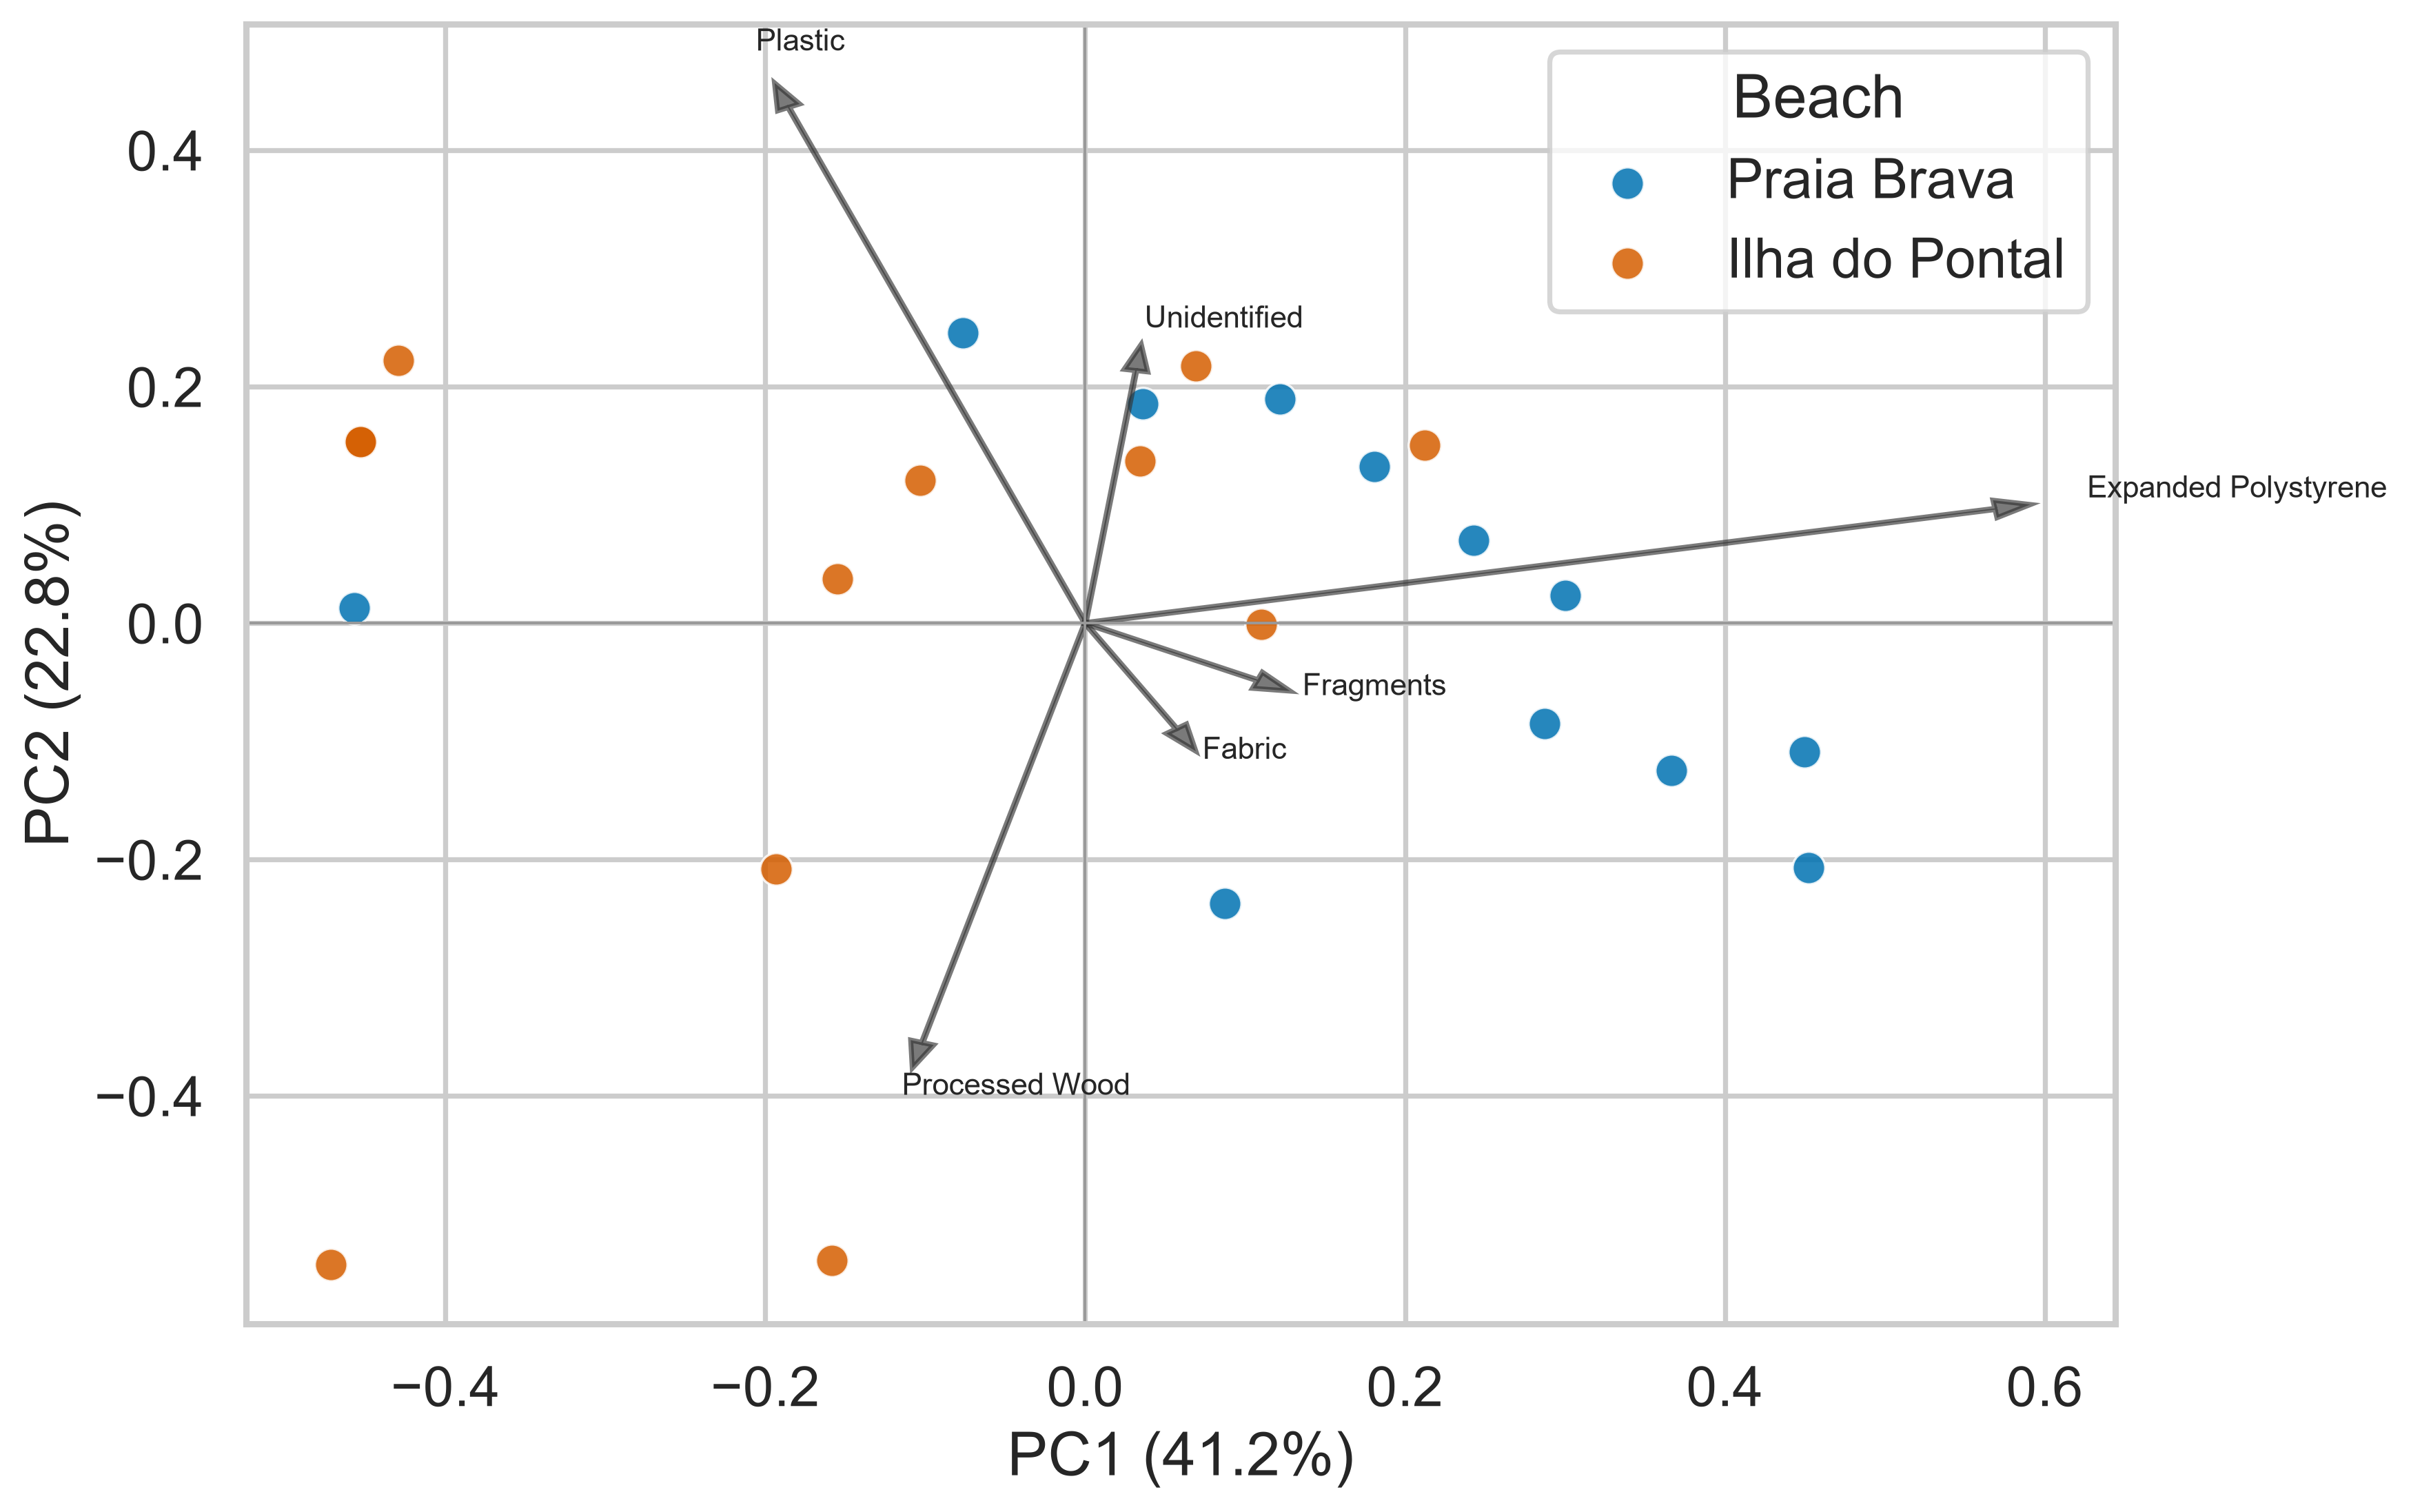
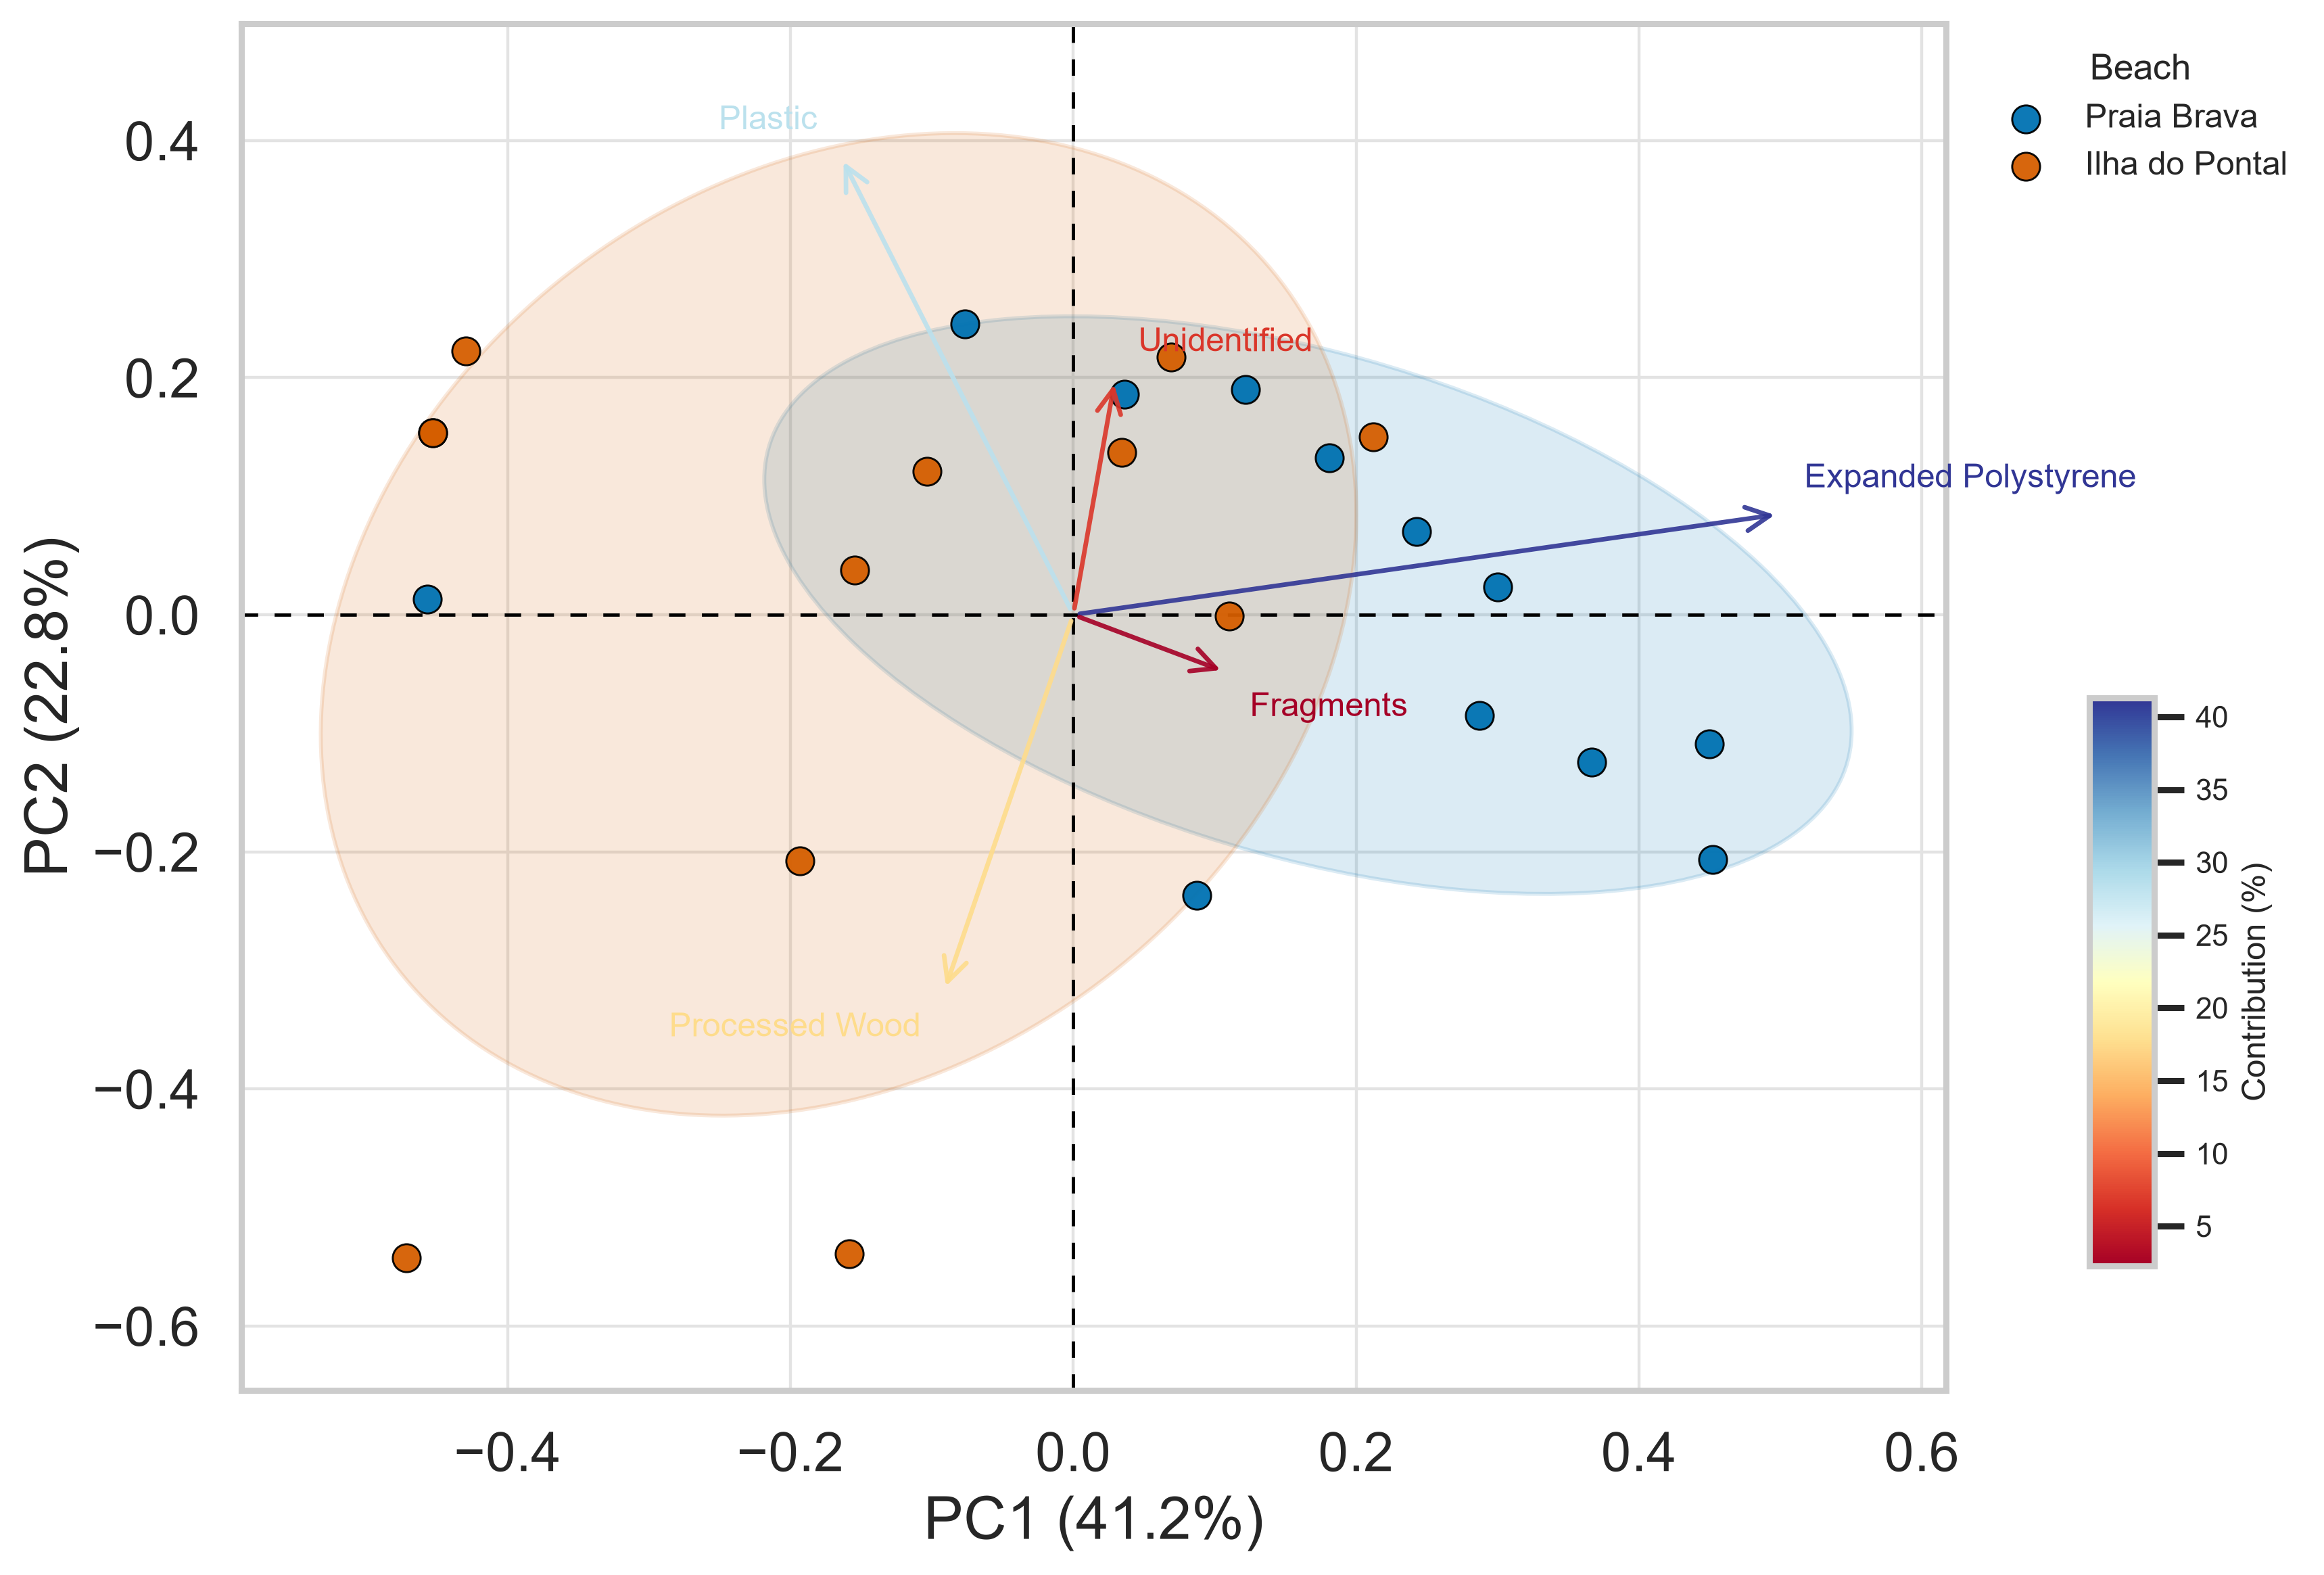
Adopt publication-style PCA and add repository metadata

diff --git a/scripts/02_run_analysis.py b/scripts/02_run_analysis.py
@@ -15,11 +15,14 @@ warnings.filterwarnings(
 import matplotlib
 matplotlib.use("Agg")
 import matplotlib.pyplot as plt
+from matplotlib.cm import ScalarMappable
+from matplotlib.colors import Normalize
+from matplotlib.patches import Ellipse
 import numpy as np
 import pandas as pd
 import seaborn as sns
 from scipy.spatial.distance import pdist, squareform
-from scipy.stats import bootstrap
+from scipy.stats import bootstrap, chi2
 from skbio import DistanceMatrix
 from skbio.stats.distance import permanova, permdisp
 from sklearn.cluster import KMeans
@@ -229,6 +232,37 @@ def display_label(value: str) -> str:
     return value.replace("_", " ").title()
 
 
+def add_confidence_ellipse(
+    ax: plt.Axes,
+    x: np.ndarray,
+    y: np.ndarray,
+    color: str,
+    confidence: float = 0.68,
+) -> None:
+    if len(x) < 3:
+        return
+    covariance = np.cov(x, y)
+    eigenvalues, eigenvectors = np.linalg.eigh(covariance)
+    order = np.argsort(eigenvalues)[::-1]
+    eigenvalues = eigenvalues[order]
+    eigenvectors = eigenvectors[:, order]
+    angle = np.degrees(np.arctan2(eigenvectors[1, 0], eigenvectors[0, 0]))
+    radius = np.sqrt(chi2.ppf(confidence, df=2))
+    width, height = 2 * radius * np.sqrt(np.maximum(eigenvalues, 0))
+    ellipse = Ellipse(
+        xy=(float(np.mean(x)), float(np.mean(y))),
+        width=float(width),
+        height=float(height),
+        angle=float(angle),
+        facecolor=color,
+        edgecolor=color,
+        linewidth=1.2,
+        alpha=0.14,
+        zorder=1,
+    )
+    ax.add_patch(ellipse)
+
+
 def main() -> None:
     TABLE_DIR.mkdir(parents=True, exist_ok=True)
     FIGURE_DIR.mkdir(parents=True, exist_ok=True)
@@ -327,6 +361,10 @@ def main() -> None:
     ).rename_axis("category").reset_index()
     loadings["PC1_abs_loading"] = loadings["PC1_loading"].abs()
     loadings["PC2_abs_loading"] = loadings["PC2_loading"].abs()
+    loading_strength = (
+        loadings["PC1_loading"] ** 2 + loadings["PC2_loading"] ** 2
+    )
+    loadings["contribution_percent"] = 100 * loading_strength / loading_strength.sum()
     scores.to_csv(TABLE_DIR / "table_04_pca_scores_and_clusters.csv", index=False)
     loadings.to_csv(TABLE_DIR / "table_05_pca_loadings.csv", index=False)
     silhouette.to_csv(TABLE_DIR / "table_06_cluster_selection.csv", index=False)
@@ -470,50 +508,99 @@ def main() -> None:
             )
     save_figure(fig, "figure_02_composition_by_beach_and_season")
 
-    fig, ax = plt.subplots(figsize=(10, 7))
+    fig, ax = plt.subplots(figsize=(11, 7.5))
+    fig.subplots_adjust(right=0.78)
     for beach in BEACH_ORDER:
         subset = scores[scores["beach"] == beach]
+        add_confidence_ellipse(
+            ax,
+            subset["PC1"].to_numpy(),
+            subset["PC2"].to_numpy(),
+            PALETTE[beach],
+        )
         ax.scatter(
             subset["PC1"],
             subset["PC2"],
-            s=95,
+            s=72,
             c=PALETTE[beach],
             label=beach,
-            alpha=0.85,
-            edgecolor="white",
-            linewidth=0.7,
+            alpha=0.95,
+            edgecolor="black",
+            linewidth=0.6,
+            zorder=3,
         )
-    top_loading_categories = set(
-        loadings.nlargest(5, "PC1_abs_loading")["category"]
-    ) | set(loadings.nlargest(5, "PC2_abs_loading")["category"])
-    scale = 0.85 * max(
+    plotted_loadings = loadings.nlargest(5, "contribution_percent").copy()
+    scale = 0.72 * max(
         np.ptp(scores["PC1"]) / max(np.ptp(loadings["PC1_loading"]), 1e-9),
         np.ptp(scores["PC2"]) / max(np.ptp(loadings["PC2_loading"]), 1e-9),
     )
-    for _, row in loadings[
-        loadings["category"].isin(top_loading_categories)
-    ].iterrows():
+    contribution_norm = Normalize(
+        vmin=float(plotted_loadings["contribution_percent"].min()),
+        vmax=float(plotted_loadings["contribution_percent"].max()),
+    )
+    contribution_cmap = plt.get_cmap("RdYlBu")
+    for _, row in plotted_loadings.iterrows():
         x = row["PC1_loading"] * scale
         y = row["PC2_loading"] * scale
-        ax.arrow(
-            0,
-            0,
-            x,
-            y,
-            color="#333333",
-            alpha=0.65,
-            width=0.001,
-            head_width=0.015,
-            length_includes_head=True,
+        arrow_color = contribution_cmap(
+            contribution_norm(row["contribution_percent"])
         )
-        ax.text(x * 1.06, y * 1.06, display_label(row["category"]), fontsize=9)
-    ax.axhline(0, color="#999999", linewidth=0.8)
-    ax.axvline(0, color="#999999", linewidth=0.8)
+        ax.annotate(
+            "",
+            xy=(x, y),
+            xytext=(0, 0),
+            arrowprops={
+                "arrowstyle": "->",
+                "color": arrow_color,
+                "linewidth": 1.4,
+                "alpha": 0.9,
+            },
+            zorder=4,
+        )
+        ax.annotate(
+            display_label(row["category"]),
+            xy=(x, y),
+            xytext=(7 if x >= 0 else -7, 6 if y >= 0 else -6),
+            textcoords="offset points",
+            color=arrow_color,
+            fontsize=10,
+            fontweight="normal",
+            ha="left" if x >= 0 else "right",
+            va="bottom" if y >= 0 else "top",
+            zorder=5,
+        )
+    ax.axhline(0, color="black", linewidth=1.0, linestyle=(0, (5, 5)))
+    ax.axvline(0, color="black", linewidth=1.0, linestyle=(0, (5, 5)))
     ax.set(
         xlabel=f"PC1 ({100 * pca.explained_variance_ratio_[0]:.1f}%)",
         ylabel=f"PC2 ({100 * pca.explained_variance_ratio_[1]:.1f}%)",
     )
-    ax.legend(title="Beach")
+    ax.grid(True, which="major", color="#E3E3E3", linewidth=0.9)
+    ax.set_axisbelow(True)
+    vector_x = plotted_loadings["PC1_loading"].to_numpy() * scale
+    vector_y = plotted_loadings["PC2_loading"].to_numpy() * scale
+    combined_x = np.concatenate([scores["PC1"].to_numpy(), vector_x, [0]])
+    combined_y = np.concatenate([scores["PC2"].to_numpy(), vector_y, [0]])
+    x_padding = max(np.ptp(combined_x) * 0.12, 0.05)
+    y_padding = max(np.ptp(combined_y) * 0.12, 0.05)
+    ax.set_xlim(combined_x.min() - x_padding, combined_x.max() + x_padding)
+    ax.set_ylim(combined_y.min() - y_padding, combined_y.max() + y_padding)
+    ax.legend(
+        title="Beach",
+        bbox_to_anchor=(1.01, 1.0),
+        loc="upper left",
+        frameon=False,
+        fontsize=10,
+        title_fontsize=11,
+    )
+    contribution_map = ScalarMappable(
+        norm=contribution_norm, cmap=contribution_cmap
+    )
+    contribution_map.set_array([])
+    colorbar_axis = fig.add_axes([0.835, 0.18, 0.025, 0.32])
+    colorbar = fig.colorbar(contribution_map, cax=colorbar_axis)
+    colorbar.set_label("Contribution (%)", fontsize=10)
+    colorbar.ax.tick_params(labelsize=9)
     save_figure(fig, "figure_03_hellinger_pca")
 
     heatmap = (

diff --git a/LICENSES.md b/LICENSES.md
@@ -1,13 +1,11 @@
-# Licensing decision required
+# Licensing decision pending
 
-No license has been assigned yet.
+Copyright © 2026 Luciano Rapagnã. All rights reserved until an explicit reuse
+license is selected.
 
-Before public release, the data owners and authors should choose licenses
-explicitly. A common arrangement for a research compendium is:
+The repository may be viewed and downloaded, but no permission to redistribute,
+modify, or reuse its contents is granted by this notice. A reuse license will
+be added before the first Zenodo release.
 
-- Source code: MIT License.
-- Data, tables, figures, and documentation: Creative Commons Attribution 4.0
-  International (CC BY 4.0).
-
-Until the authors approve a license, all rights remain reserved and the
-repository should not be treated as openly reusable.
+The legacy notebook is retained for provenance. Third-party names, trademarks,
+and cited works remain subject to their respective rights.

diff --git a/README.md b/README.md
@@ -3,6 +3,9 @@
 Reproducible reanalysis of marine-litter data collected at Praia Brava and
 Ilha do Pontal, Arraial do Cabo, Rio de Janeiro, Brazil.
 
+Author: Luciano Rapagnã
+([ORCID 0000-0002-9009-4463](https://orcid.org/0000-0002-9009-4463)).
+
 ## Official data source
 
 The analysis uses `data/raw/planilha_organizada.xlsx` as its official and
@@ -52,6 +55,10 @@ In VS Code, the same commands are available through **Terminal → Run Task**:
 - PERMDISP diagnostics before interpreting PERMANOVA.
 - Publication figures exported as PNG and PDF.
 
+The PCA figure follows a persistent publication style with group ellipses,
+zero-reference axes, variable vectors colored by contribution, and external
+legends. Running the complete workflow always regenerates this format.
+
 ## Reproducibility rule
 
 Never edit files in `data/raw/`. If the source workbook changes, replace it
@@ -61,5 +68,10 @@ deliberately, record the new SHA-256 hash, and rerun the complete workflow.
 
 The complete workflow has been executed successfully from PowerShell. Density
 and CCI use 50 m² per transect, as documented in
-`docs/analysis_decisions.md`. Zenodo metadata will be finalized after the
-creator names, affiliations, and ORCID identifiers are confirmed.
+`docs/analysis_decisions.md`.
+
+## Citation and license
+
+Citation metadata are available in `CITATION.cff`, and Zenodo metadata are in
+`.zenodo.json`. The reuse license remains to be confirmed before the first
+Zenodo release; see `LICENSES.md`.